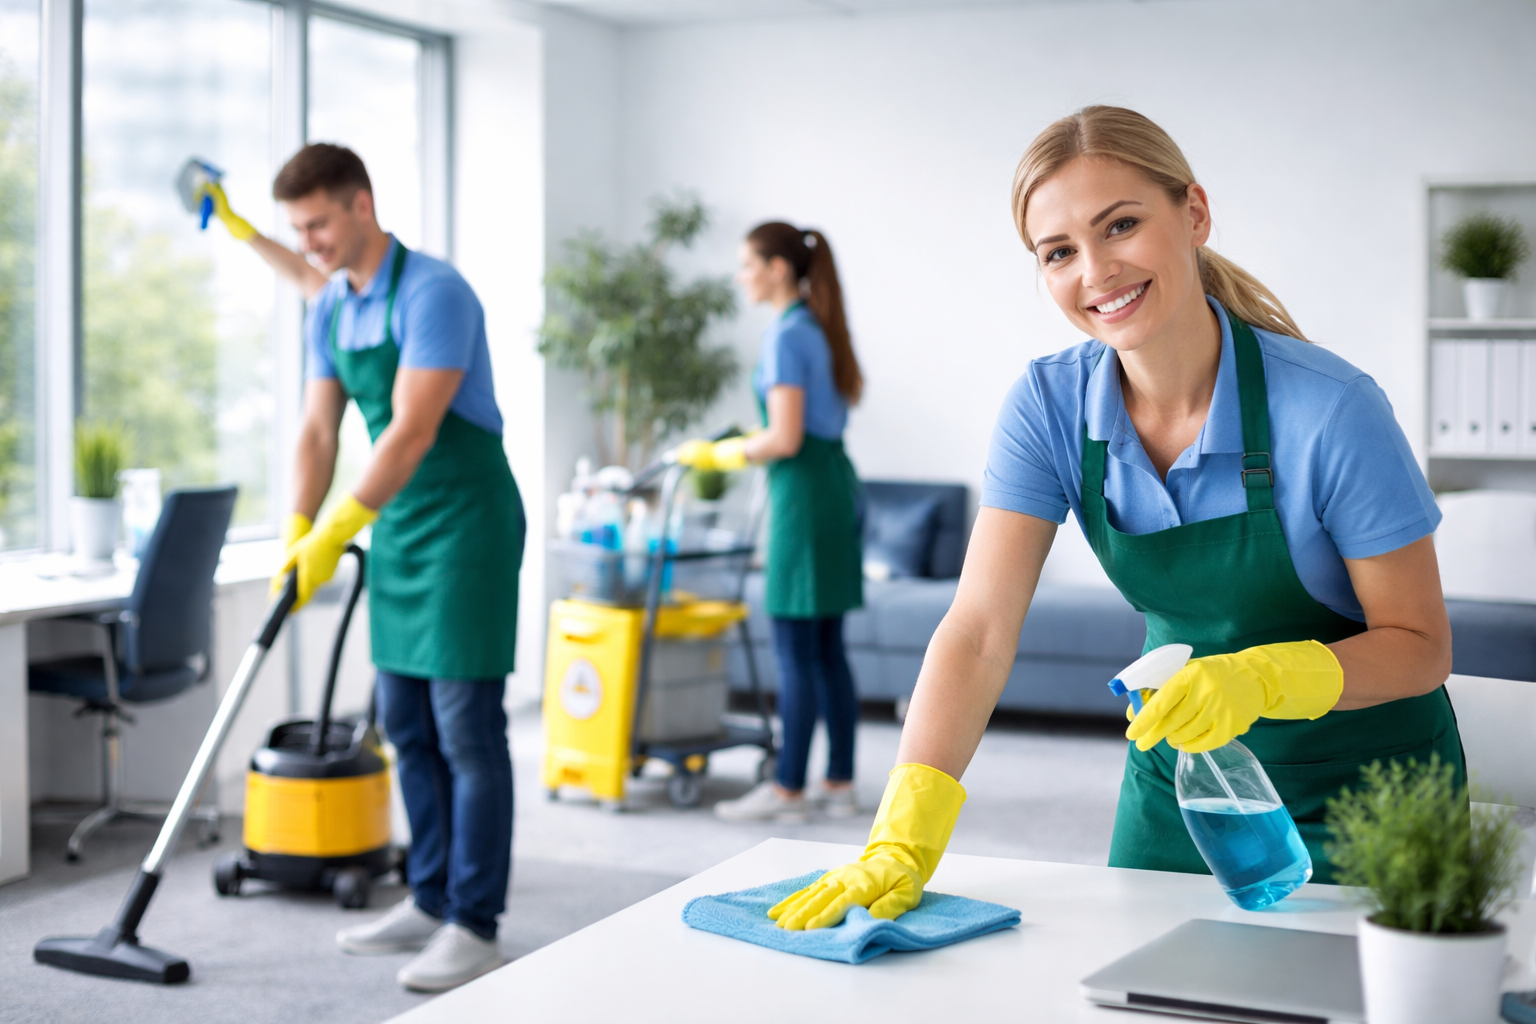
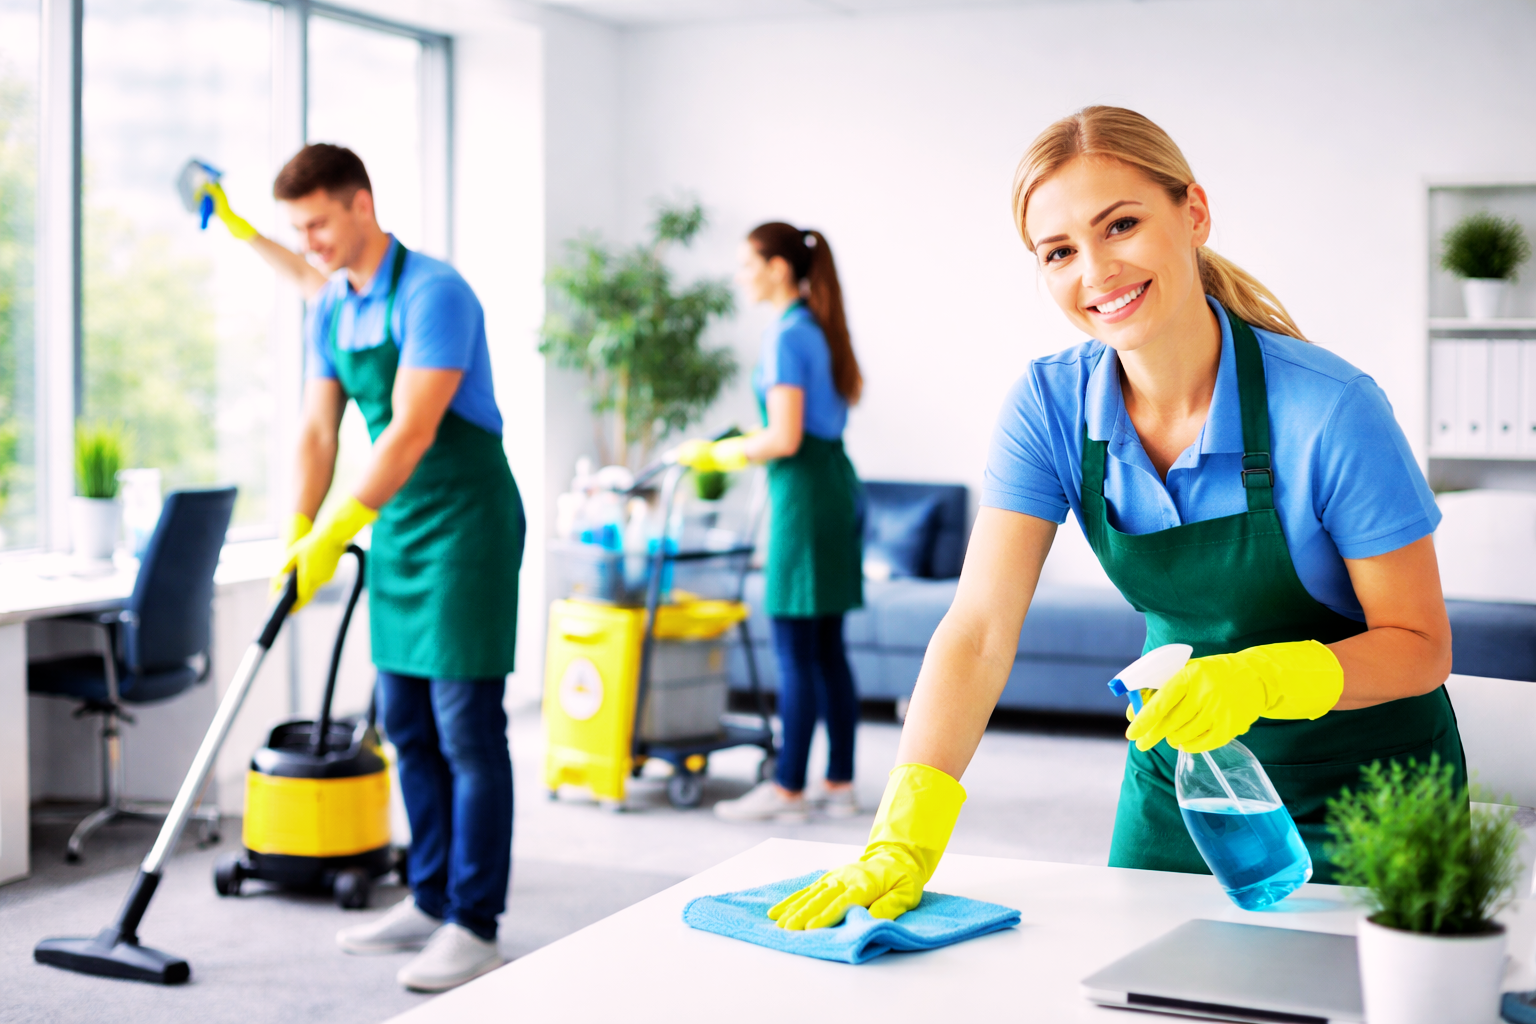
mobile hero background

diff --git a/src/App.jsx b/src/App.jsx
@@ -3,6 +3,7 @@ import { useTranslation, initReactI18next } from "react-i18next";
 import i18n from "i18next";
 import { motion, AnimatePresence } from "framer-motion";
 import bg from "./assets/Nova slika.png";
+import bgMobile from "./assets/Nova slikam.png";
 import {
   BrowserRouter as Router,
   Routes,
@@ -760,14 +761,36 @@ function Navbar() {
   );
 }
 
+function useIsMobile(breakpoint = 560) {
+  const [isMobile, setIsMobile] = React.useState(
+    typeof window !== "undefined" ? window.innerWidth <= breakpoint : false
+  );
+
+  React.useEffect(() => {
+    const handleResize = () => {
+      setIsMobile(window.innerWidth <= breakpoint);
+    };
+
+    handleResize();
+    window.addEventListener("resize", handleResize);
+
+    return () => {
+      window.removeEventListener("resize", handleResize);
+    };
+  }, [breakpoint]);
+
+  return isMobile;
+}
+
 function Hero() {
   const { t } = useTranslation();
+  const isMobile = useIsMobile(560);
 
   return (
     <section
       className="hero"
       style={{
-        backgroundImage: `url(${bg})`,
+        backgroundImage: `url(${isMobile ? bgMobile : bg})`,
       }}
     >
       <div className="hero__overlay" />
